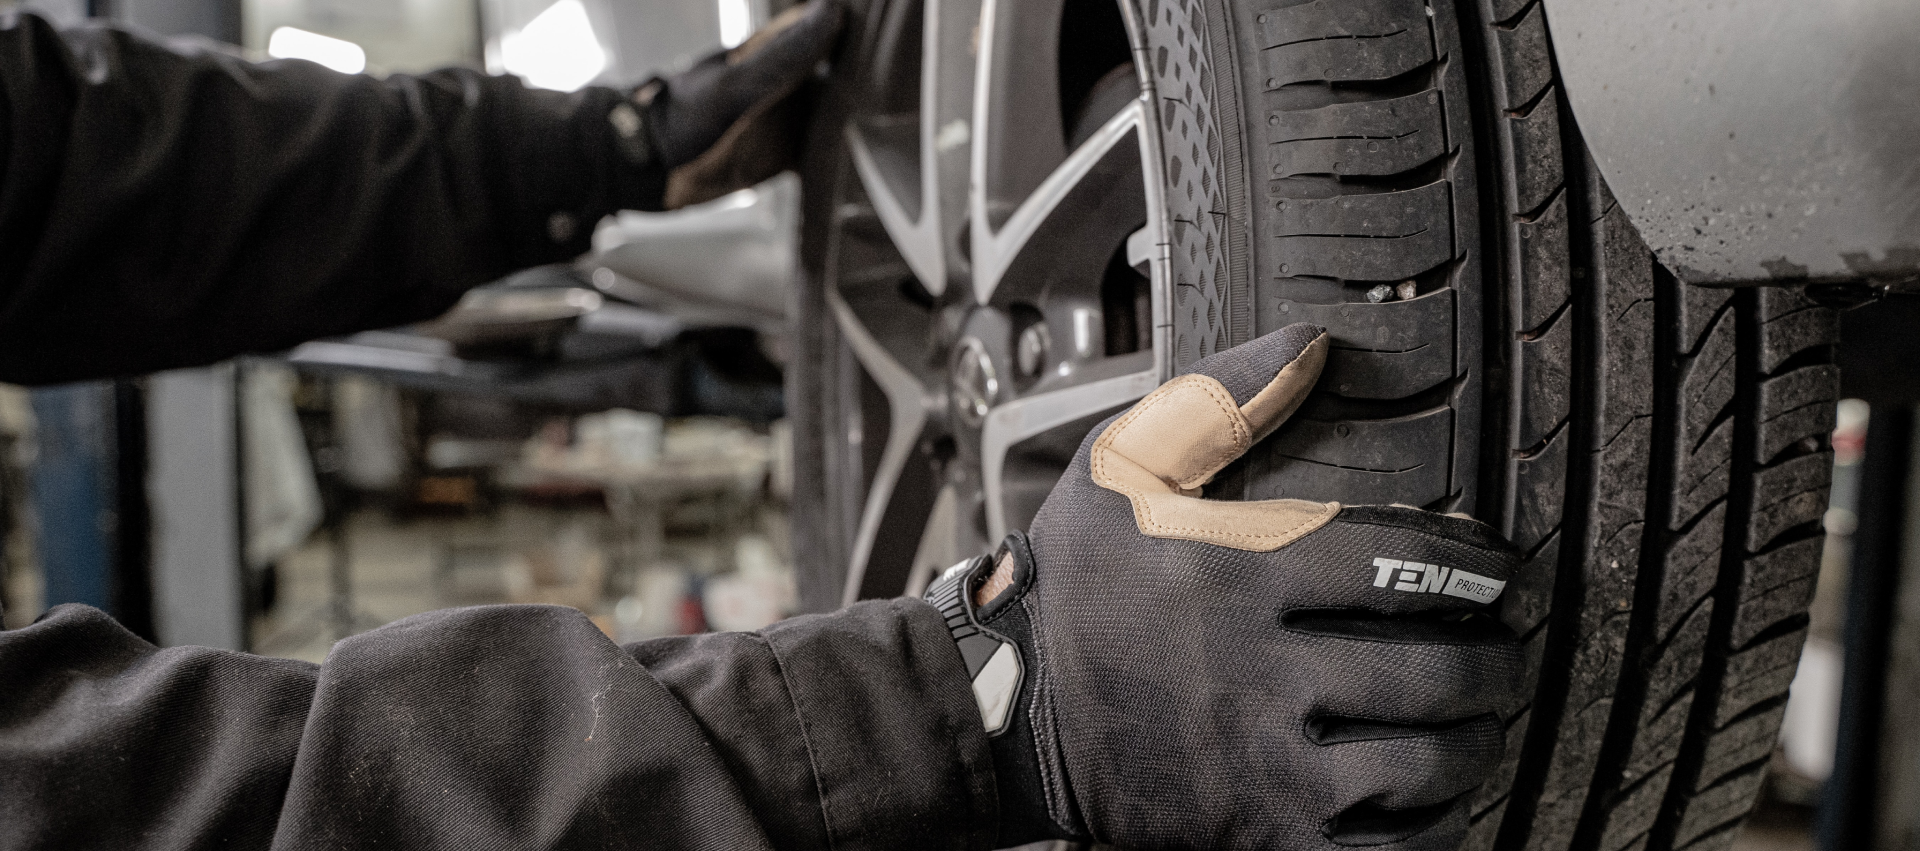
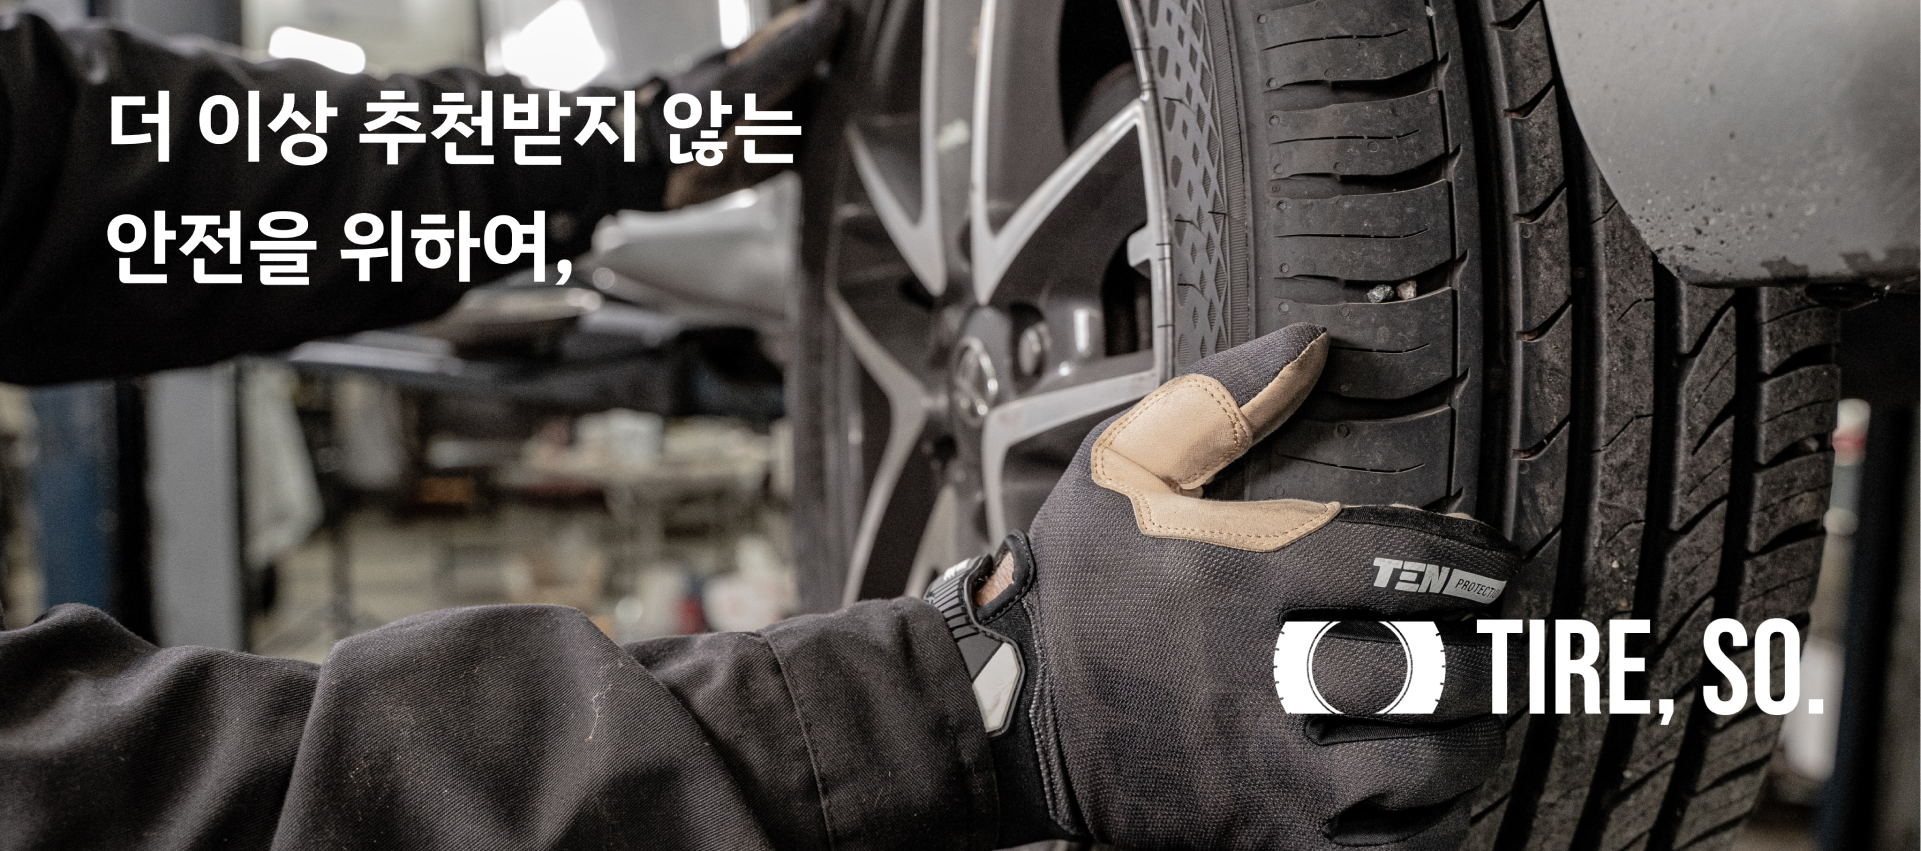
fix mainpage

diff --git a/src/pages/main/Slider.js b/src/pages/main/Slider.js
@@ -9,11 +9,11 @@ import 'swiper/css/navigation';
 // import required modules
 import { Autoplay, Pagination, Navigation } from 'swiper';
 import SwiperSlide1 from "assets/images/mainpage/SwiperSlide1.png"
-import SwiperSlide2 from "assets/images/mainpage/SwiperSlide2.jpg"
+import SwiperSlide2 from "assets/images/mainpage/SwiperSlide2.png"
 import SwiperSlide3 from "assets/images/mainpage/SwiperSlide3.jpg"
 import SwiperSlide4 from "assets/images/mainpage/SwiperSlide4.jpg"
 import SwiperSlide5 from "assets/images/mainpage/SwiperSlide5.jpg"
-import { ReactComponent as SlideLogo } from "assets/images/mainpage/SlideLogo.svg";
+// import { ReactComponent as SlideLogo } from "assets/images/mainpage/SlideLogo.svg";
 import { SearchForm } from 'components';
 
 
@@ -21,6 +21,8 @@ const MainPageSwiper = styled.div`
  
     position: relative;
     margin-bottom: 150px;
+    display: flex;
+    justify-content: center;
     img {
         width: 100%;
         height: 800px;
@@ -28,21 +30,28 @@ const MainPageSwiper = styled.div`
     };
 
     .title-content {
-        position: absolute;
-        top: 50%;
+        /* position: absolute; */
+        /* top: 50%;
         left: 50%;
         transform: translate(-80%, -100%);
         color: white;
         padding: 10px;
-        font-size: 85px;
+        font-size: 85px; */
+        /* display: flex;
+        align-items: center;
+        justify-content: center; */
     };
 
     .slide-logo {
-        position: absolute;
+        /* position: absolute;
+        z-index: 1;
         top: 50%;
-        left: 50%;
+        left: 50%; 
         transform: translate(20%, 40%);
-        
+        display: flex;
+        align-items: center;
+        justify-content: center;
+         */
     };
 
     .swiper-pagination{
@@ -70,6 +79,7 @@ const MainPageSwiper = styled.div`
     color: #FFFFFF !important;
     margin-left: 120px;
     margin-right: 120px;
+    margin-bottom: 50px;
     };
 
     .swiper-button-prev:after,
@@ -81,11 +91,7 @@ const MainPageSwiper = styled.div`
 const Nav = styled.div`
     position: absolute;
     z-index: 1;
-    display: flex;
-    align-items:center;
-    justify-items: center;
-    transform: translate(58%, -50%);
-
+    margin-top: 700px;
 `
 
 export default function MainPage() {
@@ -106,14 +112,14 @@ export default function MainPage() {
         className="mySwiper"
       >
         <SwiperSlide>
-            <div>
+            <div className= "slider1">
                 <img src={SwiperSlide1} alt=""/>
-                <div className="title-content">
+                {/* <div className="title-content">
                     <h3>더 이상 추천받지 않는 <br/>안전을 위하여,</h3>
                 </div>
                 <div className="slide-logo">
                     <SlideLogo/>
-                </div>
+                </div> */}
             </div>
         </SwiperSlide>
         <SwiperSlide>

diff --git a/public/index.html b/public/index.html
@@ -2,7 +2,7 @@
 <html lang="en">
   <head>
     <meta charset="utf-8" />
-    <link rel="icon" href="%PUBLIC_URL%/favicon.ico" />
+    <link rel="icon" href="%PUBLIC_URL%/favicon.png" />
     <link rel="preconnect" href="https://fonts.googleapis.com">
     <link rel="preconnect" href="https://fonts.gstatic.com" crossorigin>
     <link href="https://fonts.googleapis.com/css2?family=IBM+Plex+Sans+KR:wght@600&display=swap" rel="stylesheet">

diff --git a/src/components/topbar/TopBar.js b/src/components/topbar/TopBar.js
@@ -15,6 +15,8 @@ const Top = styled.div`
     align-items: center;
     font-size: 12px;
     justify-content: center;
+    
+    
 `
 
 const TopCenter = styled.div`
